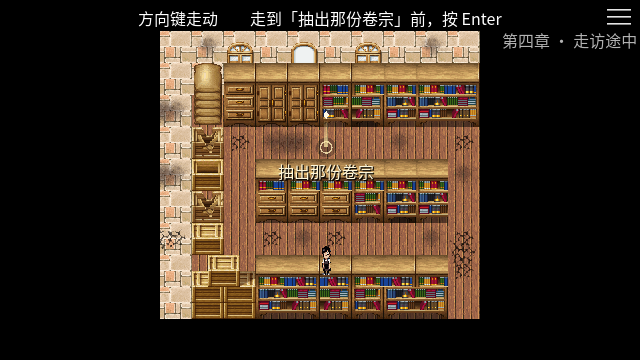
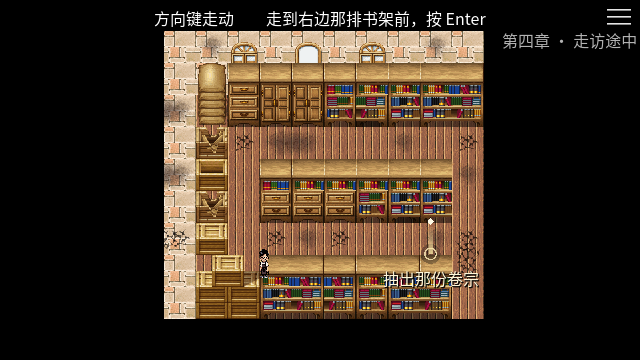
[反馈] Citrate#43-48：墓园卡点/Ch02字幕/档案室走位/术语/Ch12 HUD与揭底
- #43 RPGExplo 补"填内部小孔"（墓园走位面运行期算，之前没覆盖）
- #44 Ch02 选「只信墓碑」：冷话说完再摆卡（字幕不再被卡压住）
- #45 RpgArchive 出生点与目标点放进同一条过道（不用跨书架）
- #46 Ch03 指引/浮标术语统一为「工作台」
- #47 Ch12 凿碑 HUD 上移到 y278（不再压底部字幕）
- #48 Ch12 第 6 锤落下即揭底（原来 >=6 的输入被挡、永远揭不了底）
- 标注 Citrate#43-48、Natsume#8/#9；集成测试 87/87

Changed region(s): [[0.2188, 0.0306, 0.7812, 0.8861]]

diff --git a/src/Dev/RPGExplo.cs b/src/Dev/RPGExplo.cs
@@ -75,6 +75,7 @@ public partial class RPGExplo : Node2D
 
         BuildWalkMask();
         CloseGaps();               // 先愈合抖动凹口
+        FillHoles(12000);          // #43：再填内部小孔（路面上的装饰/杂点不再咬出卡点）
         SpawnTrees();              // 树精灵按美术遮罩清单进 Y-Sort（须在 _qingming 赋值之后）
         ErodeFootprint();          // 侵蚀必须放在所有改路面之后
         _start = NearestSafe(Spawn);
@@ -229,6 +230,38 @@ public partial class RPGExplo : Node2D
             }
         }
         return dst;
+    }
+
+    /// <summary>#43：填被路面包住的内部小孔（边缘洪泛 + 只填小孔），去掉路上的卡点。</summary>
+    void FillHoles(int maxHole)
+    {
+        int w = _mw, h = _mh;
+        var reach = new bool[_walk.Length];
+        var q = new Queue<int>();
+        void Seed(int i) { if (!_walk[i] && !reach[i]) { reach[i] = true; q.Enqueue(i); } }
+        for (int x = 0; x < w; x++) { Seed(x); Seed((h - 1) * w + x); }
+        for (int y = 0; y < h; y++) { Seed(y * w); Seed(y * w + w - 1); }
+        while (q.Count > 0)
+        {
+            int c = q.Dequeue(); int cx = c % w, cy = c / w;
+            if (cx > 0) Seed(c - 1); if (cx < w - 1) Seed(c + 1);
+            if (cy > 0) Seed(c - w); if (cy < h - 1) Seed(c + w);
+        }
+        var vis = new bool[_walk.Length];
+        for (int i = 0; i < _walk.Length; i++)
+        {
+            if (_walk[i] || reach[i] || vis[i]) continue;
+            var comp = new List<int>(); var dq = new Queue<int>(); dq.Enqueue(i); vis[i] = true;
+            while (dq.Count > 0)
+            {
+                int c = dq.Dequeue(); comp.Add(c); int cx = c % w, cy = c / w;
+                if (cx > 0 && !vis[c - 1] && !_walk[c - 1] && !reach[c - 1]) { vis[c - 1] = true; dq.Enqueue(c - 1); }
+                if (cx < w - 1 && !vis[c + 1] && !_walk[c + 1] && !reach[c + 1]) { vis[c + 1] = true; dq.Enqueue(c + 1); }
+                if (cy > 0 && !vis[c - w] && !_walk[c - w] && !reach[c - w]) { vis[c - w] = true; dq.Enqueue(c - w); }
+                if (cy < h - 1 && !vis[c + w] && !_walk[c + w] && !reach[c + w]) { vis[c + w] = true; dq.Enqueue(c + w); }
+            }
+            if (comp.Count <= maxHole) foreach (var c in comp) _walk[c] = true;
+        }
     }
 
     bool[] Erode(bool[] src, int r)

diff --git a/src/Game/Ch12.cs b/src/Game/Ch12.cs
@@ -19,7 +19,7 @@ public partial class Ch12 : StorySceneBase
         Plate("bg_cemetery_qingming");
         Ambient("amb_graveyard");
         Raw("res://assets/textures/char_luyun_back.png", new Vector2(320, 260));
-        _hud = new Label { Position = new Vector2(200, 320), Size = new Vector2(280, 30),
+        _hud = new Label { Position = new Vector2(200, 278), Size = new Vector2(280, 30),
                            Text = "Enter：凿" };
         Ui.AddChild(_hud);
         _dust = new ColorRect { Color = new Color(0.8f, 0.78f, 0.72f, 0f),
@@ -34,13 +34,16 @@ public partial class Ch12 : StorySceneBase
 
     private void Hit()
     {
-        if (_chisel >= ChiselTotal) { Reveal(); return; }
+        if (_revealed) return;
         Sfx(_chisel % 2 == 0 ? "sfx_hammer_swing" : "sfx_hammer_chisel");
         _dust.Color = new Color(0.8f, 0.78f, 0.72f, 0.35f);
         var tw = CreateTween();
         tw.TweenProperty(_dust, "color:a", 0f, 0.9f);
         _chisel++;
         _hud.Text = $"Enter：凿（{_chisel}/{ChiselTotal}）";
+        // Citrate#48：原来只有"再按一下"才会揭底，可 _UnhandledInput 又把 _chisel>=6 的
+        // 输入挡掉了 → 永远揭不了底。改成第 6 锤落下即揭底。
+        if (_chisel >= ChiselTotal) Reveal();
     }
 
     // demo 版：Enter 连续敲也可（正式版锁节奏 = 每锤间隔）
@@ -50,8 +53,12 @@ public partial class Ch12 : StorySceneBase
         base._UnhandledInput(e);
     }
 
+    private bool _revealed;
+
     private void Reveal()
     {
+        if (_revealed) return;
+        _revealed = true;
         Sfx("sfx_base_crack");
         var card = new Panel { Position = new Vector2(150, 80), Size = new Vector2(340, 150), MouseFilter = Control.MouseFilterEnum.Ignore };
         card.AddChild(new Label { Position = new Vector2(20, 14), Text =

diff --git a/src/Game/Ch02.cs b/src/Game/Ch02.cs
@@ -65,12 +65,13 @@ public partial class Ch02 : StorySceneBase
                 End("他量了两行日期之间的跨度。二十一天。");
                 break;
             default:
-                End(Save.EndingOneFired
-                    ? "结局一 · 没发现碑的问题——真相就在眼前，但你没有看见。"
-                    : "你现在相信的\"事实\"，可能正是凶手希望你相信的。");
-                    if (Save.EndingOneFired)
-            { EndingCard.Open(GetTree(), "结局一 · 没发现碑的问题", "真相就在眼前，但你没有看见。"); return; }
-                Gate();   // 没触发结局一：资料收回桌上，重新摆开
+                if (Save.EndingOneFired)
+                {
+                    EndingCard.Open(GetTree(), "结局一 · 没发现碑的问题", "真相就在眼前，但你没有看见。");
+                    return;
+                }
+                // Citrate#44：冷话先说完、再重新摆资料卡——否则字幕会被卡片压住
+                Subs(Gate, "你现在相信的\"事实\"，可能正是凶手希望你相信的。");
                 return;
         }
     }

diff --git a/src/Game/RpgArchive.cs b/src/Game/RpgArchive.cs
@@ -7,13 +7,14 @@ public partial class RpgArchive : RpgWalk
 {
     protected override string ChapterName => "第四章 · 走访途中";
     protected override string MapPath => "res://assets/textures/map_archive_room.png";
-    protected override Vector2 SpawnWorld => new(250, 340);
+    protected override Vector2 SpawnWorld => new(150, 345);
     protected override string[] Guidance => new[]
     {
-        "方向键走动　　走到「抽出那份卷宗」前，按 Enter",
+        "方向键走动　　走到右边那排书架前，按 Enter",
     };
     protected override RpgTarget[] Targets => new[]
     {
-        new RpgTarget("抽出那份卷宗", new Vector2(250, 185), ChapterFlow.NextContent()),
+        // #45：出生点和目标点放在**同一条过道**里（不用跨书架），避免"往书架上走不动"。
+        new RpgTarget("抽出那份卷宗", new Vector2(400, 345), ChapterFlow.NextContent()),
     };
 }

diff --git a/src/Game/RpgShop.cs b/src/Game/RpgShop.cs
@@ -10,7 +10,7 @@ public partial class RpgShop : RpgWalk
     protected override Vector2 SpawnWorld => new(240, 420);
     protected override string[] Guidance => new[]
     {
-        "方向键走动　　走到左下角的账台前，按 Enter",
+        "方向键走动　　走到左下角的工作台前，按 Enter",
     };
     protected override RpgTarget[] Targets => new[]
     {

diff --git a/doc/Bugs反馈_Citrate657.md b/doc/Bugs反馈_Citrate657.md
@@ -100,3 +100,15 @@ else if (_traceHold)
    > **程序回复**：对，目标点原来落在底部中央，跟"工作台"对不上。已把 `RpgShop` 的目标改到**左下角账台前**（桌前可站处 `(210,655)`），指引改成"走到左下角的账台前"。
 42. ✅【已修复】RpgShop和RpgArchive地图中，和#38一样，在空白区域发现不可走动的区域。我建议对每一张地图都做这方面的排查。
    > **程序回复**：已对**全部三张图**（office/shop/archive）重跑，统一加了"填内部小孔"清理——空白地板里的孤立非可走点被填平（shop 填 176 / archive 填 100）。工具 `tools/walkmask.py` 就是给这个用的：**地图一改，跑一次 `python3 tools/walkmask.py` 重新生成掩码即可**，调试图 `data/gen/walkprev_<map>.png`（绿=可走）可肉眼复查。
+43. ✅【已修复】接#40，第一章墓园地图，出生点左侧仍然有卡点。
+   > **程序回复**：墓园的走位面是**运行期按颜色算**的（没走 `walkmask.py` 那套掩码），所以 #40 的"填小孔"没覆盖到它。已给 `RPGExplo` 补同样的**填内部小孔**（边缘洪泛 + 只填小孔，在闭运算之后、种树之前）——路面上的装饰/杂点不再咬出卡点。（无头跑通：路面 188581px / 安全面 193161px。）
+44. ✅【已修复】第二章三个选项，选择最后一个`只信墓碑`后，字幕生成在选项卡下面。
+   > **程序回复**：选「只信墓碑」时先 `Subs` 播冷话、又**立刻** `Gate()` 重新摆卡 → 卡片（y250..340）把底部字幕（y306..360）压在下面。已改成**冷话说完再摆卡**（`Subs(Gate, "你现在相信的"事实"…")`），字幕和卡不再同时出现。
+45. ✅【已修复】接#42，RpgArchive地图中，出生点靠近上方书架部分不可走动。
+   > **程序回复**：原来出生点在下方过道、目标点在上方过道，中间隔着中层书架，得绕到很窄的左边缝——看着"往书架走不动"。已把**出生点和目标点放进同一条过道**（都用书架之间的横向走廊），径直走到「抽出那份卷宗」即可，不用跨书架（截图：两人点在同一条木地板过道里）。
+46. ✅【已修复】第三章，界面上方的文字是`账台`，而左下角却是`工作台`，有矛盾。
+   > **程序回复**：这是上一轮改 #41 时留下的口误——顶部指引写「账台」、浮标写「工作台」。已统一为**工作台**。
+47. ✅【已修复】第十二章，界面下方`A区7号`与`Enter`文字重叠。
+   > **程序回复**：底部字幕条播「A 区 7 号前围了人…」（y306 起），而"Enter：凿"的 HUD 原来也在 y320 → 叠一起。已把凿碑 HUD 上移到 **y278**（字幕条之上，截图确认不再重叠）。
+48. ✅【已修复】第十二章，`凿（6/6）`后怎么操作都没有反应。
+   > **程序回复**：根因是 `_UnhandledInput` 用 `_chisel < ChiselTotal` 挡掉了第 6 锤之后的输入，而揭底 `Reveal()` 只能从 `Hit()` 里到达 → 第 6 锤之后**永远揭不了底**。已改成**第 6 锤落下即揭底**（并给 `Reveal` 加了防重入），不会再卡住。

diff --git a/doc/Bugs反馈_Natsume.md b/doc/Bugs反馈_Natsume.md
@@ -19,8 +19,8 @@
 7，✅【已修复】"老吴别查了（递过来钱）"这个剧情是结局还是章节？我卡在这了，没有回退也没有回到主界面
    > **程序回复**：那是**第七章的关键选择六**（收信封＝结局三，推回去＝继续第八章），不是结局本身——之前卡住是因为"收下/推回"两个按钮同样是**隐形热区**，你看不到能点哪。现在：①两个选择变成看得见的资料卡；②选"收下"会走正式的结局三结局卡；③就算还卡住，右上角常驻的 **≡ 返回主菜单**永远能救场（见 Citrate#8）。
 
-8，在完成“擦拭墓碑”这个部分之后loop_chisel_run.ogg依然在播放。
+8，✅【已修复】在完成“擦拭墓碑”这个部分之后loop_chisel_run.ogg依然在播放。
    > **程序回复**：按住循环（`loop_chisel_run` 走刀 / `loop_brush_stone` 擦尘）原来只在"松手"停，**阶段切换/描完/离开场景时没兜底**。已修：擦净切阶段、描完、选登记本、选离开、离开场景（`ExitTree`）都 `StopHold`；本轮又加了一道 **phase 守卫**——只要当前阶段和按住循环不匹配就立刻停（跨阶段/跨场一律不漏音）。
 
-9，第十一章的选择中后两个选项是剧情规定的死胡同不能选，但是选择了第一个正确的选项会回退到第十章。
+9，✅【已修复】第十一章的选择中后两个选项是剧情规定的死胡同不能选，但是选择了第一个正确的选项会回退到第十章。
    > **程序回复**：真因抓到——**第十章「真相」忘了落 `ch10_done` 完成标志**，于是路由 `ChapterFlow.NextContent()` 永远判定"还没过第十章"，十一章选对（`evidence_fixed`）之后又被送回第十章。已补：第十章收尾时 `Save.Set("ch10_done")`。现在十一章选「整套交警方，原件留手里」→ 正常进第十二章。（后两个选项本就是剧情死胡同：给一句冷话后回到本场，可另选。）
